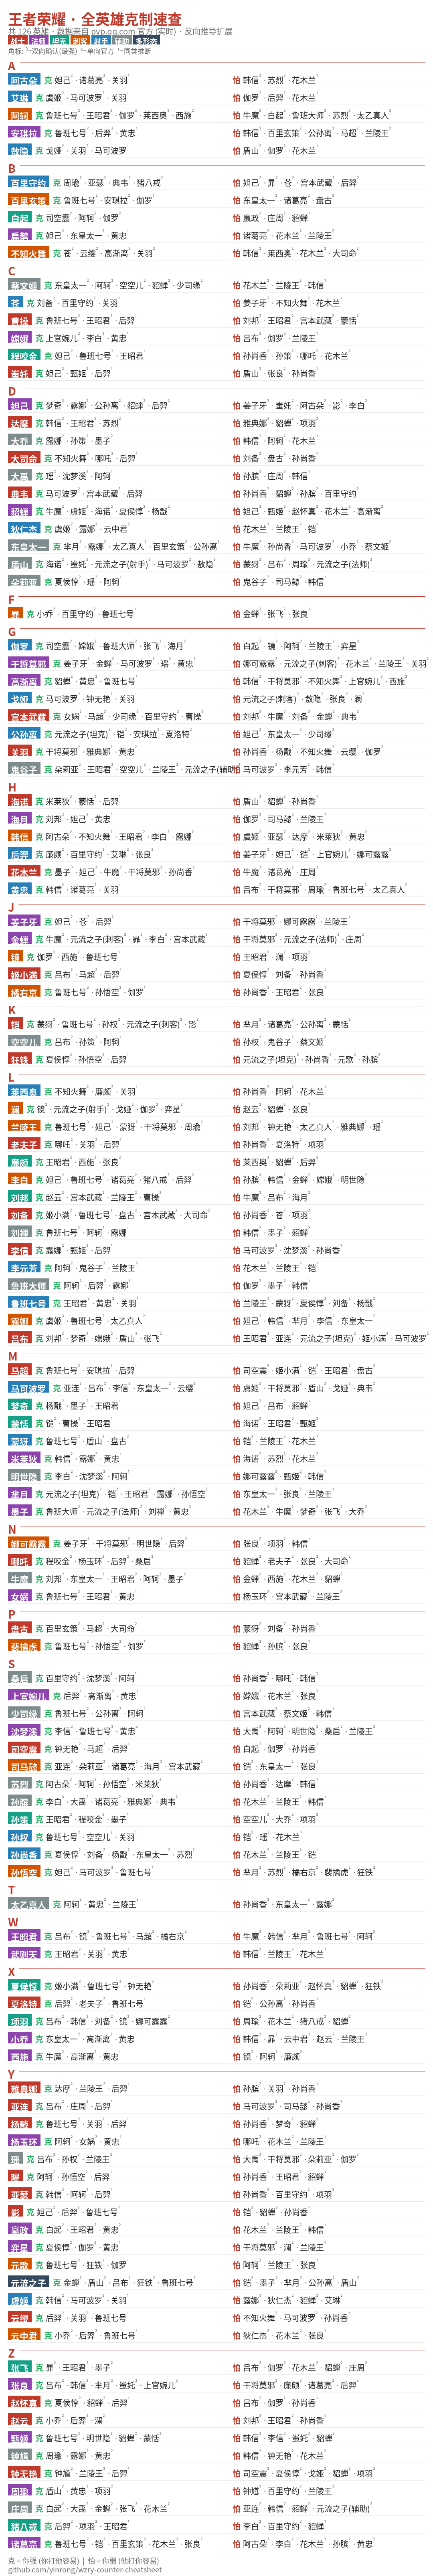
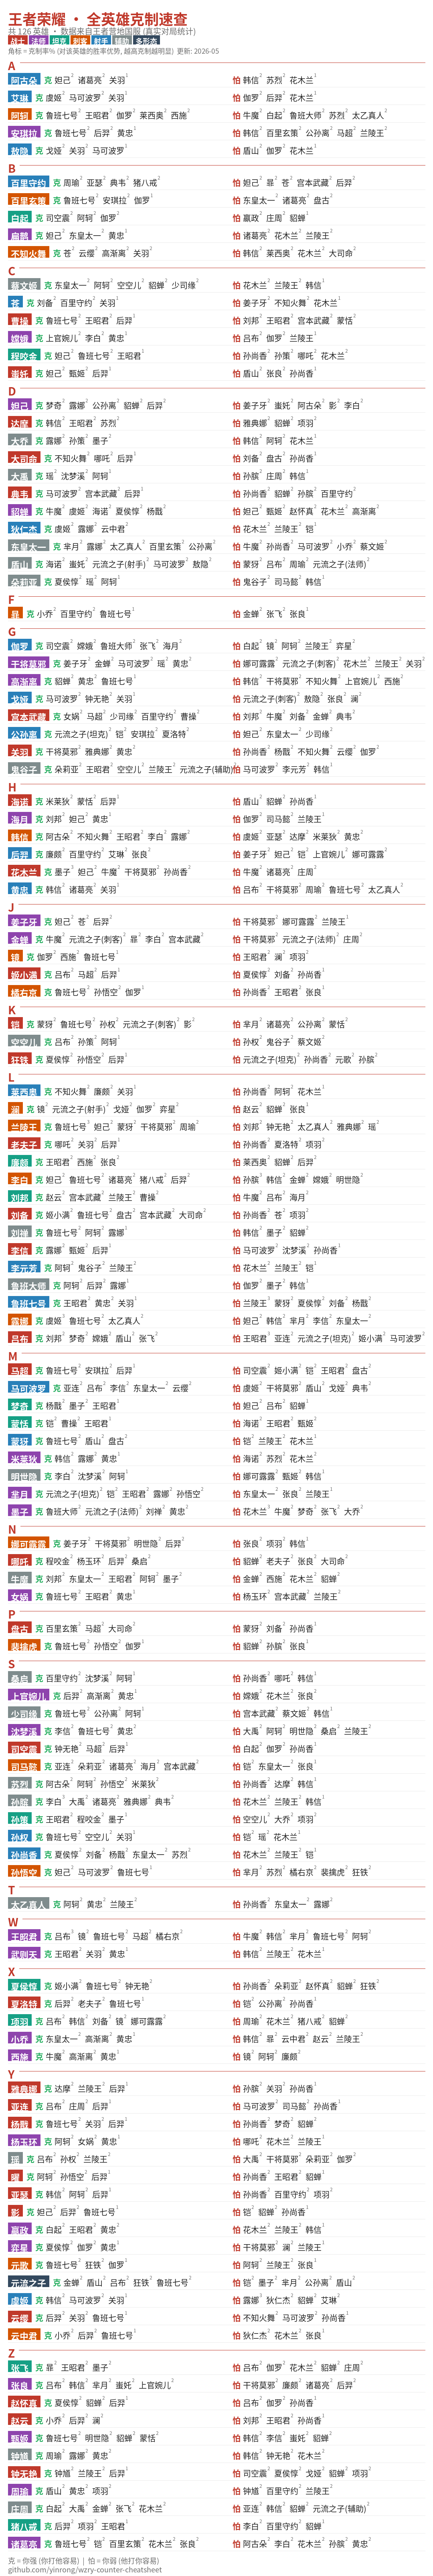
feat: switch to real CN server battle stats from 王者营地
- Data source: kohcamp.qq.com/hero/getheroextrainfo (national server)
- Based on actual match statistics, not editorial ratings
- Each hero: 3 counters + 3 countered_by with win rate advantage %
- Superscript = counter rate (win% advantage vs that hero)
- Data updated: 2026-05-13
- Removed hokcounter.com (international server, different balance)

diff --git a/src/fetch_data.py b/src/fetch_data.py
@@ -1,163 +1,106 @@
 #!/usr/bin/env python3
 """
-从公开 API 拉取实时克制关系数据, 反向推导 + 同类补全到 >= 3+3.
+从王者营地国服API拉取真实对战统计克制数据.
 
 数据源:
-  https://qing762.is-a.dev/api/wangzhe
-  (基于 pvp.qq.com 官方英雄详情页爬取, 实时更新)
+  https://kohcamp.qq.com/hero/getheroextrainfo
+  国服王者营地 · 基于真实对局统计
 
-策略:
-  1. 官方每英雄给 2 个 suppressingHeroes + 2 个 suppressedHeroes
-  2. 反向推导: 如果 A 克制 B, 则 B 被 A 克制 (即使 B 的 suppressedHeroes 里没列 A)
-  3. 同类补全: 如果英雄仍不够 3 个, 用同定位英雄的高频克制对象补全
+输出:
+  data/counters.json - 每英雄 3 克制 + 3 被克制, 带克制率(%)
 
-输出: data/counters.json (格式不变)
+角标含义:
+  数字 = 克制率 (对该英雄的胜率优势百分比, 越高克制越明显)
 """
 import json
+import time
 import urllib.request
 from pathlib import Path
-from collections import defaultdict
 
 ROOT = Path(__file__).resolve().parent.parent
 DATA = ROOT / 'data'
 
-API_URL = 'https://qing762.is-a.dev/api/wangzhe'
+HERO_LIST_URL = "https://pvp.qq.com/web201605/js/herolist.json"
+API_URL = "https://kohcamp.qq.com/hero/getheroextrainfo"
+TOKEN_URL = "https://api.t1qq.com/api/tool/wzrr/wztoken"
 
-TYPE_MAP = {1: '战士', 2: '法师', 3: '坦克', 4: '刺客', 5: '射手', 6: '辅助'}
-
-
-def fetch():
-    print(f'fetching {API_URL} ...')
-    req = urllib.request.Request(API_URL, headers={'User-Agent': 'wzry-cheatsheet/1.0'})
-    with urllib.request.urlopen(req, timeout=30) as resp:
-        raw = json.loads(resp.read().decode('utf-8'))
-    return raw
-
-
-def build_counter_graph(main, heroes_json):
-    """构建完整克制关系图, 带权重 (3=双向确认, 2=单向官方, 1=推断)."""
-    # 先收集原始"谁说了什么"
-    # forward[A][B] = True means A's page says A suppresses B
-    # backward[A][B] = True means A's page says B suppresses A
-    forward = defaultdict(set)   # A suppresses B (from A's page)
-    backward = defaultdict(set)  # B suppresses A (from A's page)
-
-    for name, hero in main.items():
-        for target in hero.get('suppressingHeroes', {}).keys():
-            forward[name].add(target)
-        for threat in hero.get('suppressedHeroes', {}).keys():
-            backward[name].add(threat)
-
-    # 构建带权重的关系
-    # counters[A][B] = weight, means A counters B with confidence weight
-    counters = defaultdict(dict)
-    countered_by = defaultdict(dict)
-
-    all_heroes = set(main.keys())
-    for a in all_heroes:
-        for b in all_heroes:
-            if a == b:
-                continue
-            # a counters b?
-            a_says_counter = b in forward[a]        # A's page says A beats B
-            b_says_countered = a in backward[b]     # B's page says A beats B
-            if a_says_counter and b_says_countered:
-                counters[a][b] = 3  # 双向确认
-                countered_by[b][a] = 3
-            elif a_says_counter or b_says_countered:
-                w = 2  # 单向官方
-                if b not in counters[a]:
-                    counters[a][b] = w
-                if a not in countered_by[b]:
-                    countered_by[b][a] = w
-
-    return counters, countered_by
+HEADERS = {
+    "Content-Type": "application/json",
+    "cchannelid": "2002",
+    "cclientversioncode": "2037905606",
+    "cclientversionname": "8.101.1017",
+    "ccurrentgameid": "20001",
+    "cgameid": "20001",
+    "csystem": "android",
+    "csystemversioncode": "32",
+    "gameareaid": "1",
+    "gameid": "20001",
+    "gameopenid": "54533036A3D6E4241440CBCD66694578",
+    "gameroleid": "2157931910",
+    "gameserverid": "1312",
+    "noencrypt": "1",
+    "openid": "472AD0DD361C8EC026E52F445041F843",
+    "userid": "2118558336",
+}
 
 
-def get_hero_types(heroes_json):
-    """返回 {英雄名: 定位} 和 {定位: [英雄名列表]}."""
-    hero_type = {}
-    type_heroes = defaultdict(list)
-    for h in heroes_json:
-        name = h['cname'].split('(')[0]
-        t = TYPE_MAP.get(h.get('hero_type', 0), '?')
-        hero_type[name] = t
-        type_heroes[t].append(name)
-    return hero_type, type_heroes
+def get_token() -> str:
+    req = urllib.request.Request(TOKEN_URL, headers={"User-Agent": "wzry-cheatsheet/1.0"})
+    with urllib.request.urlopen(req, timeout=10) as resp:
+        data = json.loads(resp.read().decode('utf-8'))
+    return data.get('token', '')
 
 
-def fill_by_type(counters, countered_by, hero_type, type_heroes, min_count=3):
-    """对于不够 min_count 的英雄, 用同定位的高频克制对象补全 (权重=1)."""
-    all_heroes = set(counters.keys()) | set(countered_by.keys())
-
-    for name in list(all_heroes):
-        if len(counters[name]) >= min_count:
-            continue
-        t = hero_type.get(name, '?')
-        freq = defaultdict(int)
-        for peer in type_heroes.get(t, []):
-            if peer == name:
-                continue
-            for target in counters[peer]:
-                if target != name and target not in counters[name]:
-                    freq[target] += 1
-        for target, _ in sorted(freq.items(), key=lambda x: -x[1]):
-            if len(counters[name]) >= min_count:
-                break
-            counters[name][target] = 1
-            if name not in countered_by[target]:
-                countered_by[target][name] = 1
-
-    for name in list(all_heroes):
-        if len(countered_by[name]) >= min_count:
-            continue
-        t = hero_type.get(name, '?')
-        freq = defaultdict(int)
-        for peer in type_heroes.get(t, []):
-            if peer == name:
-                continue
-            for threat in countered_by[peer]:
-                if threat != name and threat not in countered_by[name]:
-                    freq[threat] += 1
-        for threat, _ in sorted(freq.items(), key=lambda x: -x[1]):
-            if len(countered_by[name]) >= min_count:
-                break
-            countered_by[name][threat] = 1
-            if name not in counters[threat]:
-                counters[threat][name] = 1
+def fetch_hero_counter(hero_id: int, token: str) -> dict:
+    headers = {**HEADERS, "token": token}
+    body = json.dumps({"heroId": hero_id}).encode('utf-8')
+    req = urllib.request.Request(API_URL, data=body, headers=headers, method='POST')
+    with urllib.request.urlopen(req, timeout=10) as resp:
+        return json.loads(resp.read().decode('utf-8'))
 
 
 def main():
-    raw = fetch()
-    api_main = raw['main']
-    print(f'got {len(api_main)} heroes from API')
+    print('fetching token ...')
+    token = get_token()
+    print(f'token: {token}')
 
-    with open(DATA / 'heroes.json', 'r', encoding='utf-8') as f:
-        heroes_json = json.load(f)
+    print('fetching hero list ...')
+    with urllib.request.urlopen(HERO_LIST_URL, timeout=10) as resp:
+        heroes = json.loads(resp.read().decode('utf-8'))
+    print(f'heroes: {len(heroes)}')
 
-    hero_type, type_heroes = get_hero_types(heroes_json)
-    counters, countered_by = build_counter_graph(api_main, heroes_json)
+    results = {}
+    errors = []
+    for i, h in enumerate(heroes):
+        hero_id = h['ename']
+        hero_name = h['cname']
+        try:
+            resp = fetch_hero_counter(hero_id, token)
+            if resp.get('returnCode') == 0:
+                info = resp['data']
+                kz_list = info.get('kzInfo', {}).get('list', [])
+                bkz_list = info.get('bkzInfo', {}).get('list', [])
+                results[hero_name] = {
+                    'counter': [[x['szTitle'], round(x['kzParam'] * 100, 1)] for x in kz_list],
+                    'countered_by': [[x['szTitle'], round(x['bkzParam'] * 100, 1)] for x in bkz_list],
+                    'update_time': info.get('kzInfo', {}).get('updateTime', ''),
+                }
+            else:
+                errors.append((hero_name, resp.get('returnMsg', '')))
+        except Exception as e:
+            errors.append((hero_name, str(e)))
 
-    # 补全
-    fill_by_type(counters, countered_by, hero_type, type_heroes, min_count=3)
+        if (i + 1) % 20 == 0:
+            print(f'  progress: {i+1}/{len(heroes)}')
+        time.sleep(0.1)
 
-    # 统计
-    both3 = sum(1 for name in api_main if len(counters.get(name, {})) >= 3 and len(countered_by.get(name, {})) >= 3)
-    print(f'两边都>=3 的英雄: {both3}/{len(api_main)}')
-
-    # 输出: [[name, weight], ...] 按权重降序排列
-    result = {}
-    for name in api_main:
-        c = counters.get(name, {})
-        cb = countered_by.get(name, {})
-        result[name] = {
-            'counter': [[n, w] for n, w in sorted(c.items(), key=lambda x: -x[1])],
-            'countered_by': [[n, w] for n, w in sorted(cb.items(), key=lambda x: -x[1])],
-        }
+    print(f'\nsuccess: {len(results)}, errors: {len(errors)}')
+    if errors:
+        print(f'errors: {errors[:5]}')
 
     out = DATA / 'counters.json'
     with open(out, 'w', encoding='utf-8') as f:
-        json.dump(result, f, ensure_ascii=False, indent=2)
+        json.dump(results, f, ensure_ascii=False, indent=2)
     print(f'wrote: {out}')
 
 

diff --git a/src/render_png.py b/src/render_png.py
@@ -45,7 +45,8 @@ FONT_BOLD = '/usr/share/fonts/opentype/noto/NotoSansCJK-Bold.ttc'
 
 MAX_DISPLAY = 5  # 每边最多显示 5 个英雄名
 
-SUPERSCRIPT = {3: '³', 2: '²', 1: '¹'}  # ³ ² ¹
+SUPERSCRIPT_DIGIT = {0: '⁰', 1: '¹', 2: '²', 3: '³', 4: '⁴',
+                     5: '⁵', 6: '⁶', 7: '⁷', 8: '⁸', 9: '⁹'}
 
 
 def font(bold: bool, size: int) -> ImageFont.FreeTypeFont:
@@ -133,7 +134,7 @@ def render():
     y += 42
 
     # 副标题 + 数据来源
-    sub_text = f'共 {len(uniq)} 英雄 · 数据来自 pvp.qq.com 官方 (实时) · 反向推导扩展'
+    sub_text = f'共 {len(uniq)} 英雄 · 数据来自王者营地国服 (真实对局统计)'
     d.text((PAD_X, y), sub_text, font=f_sub, fill=SUB)
     y += 26
 
@@ -149,9 +150,9 @@ def render():
         leg_x += chip_w + 4
     y += 26
 
-    # 系数说明 (一行)
+    # 评分说明 (一行)
     f_note = font(False, 17)
-    note = '角标: ³=双向确认(最强)  ²=单向官方  ¹=同类推断'
+    note = '角标 = 克制率% (对该英雄的胜率优势, 越高克制越明显)  更新: 2026-05'
     d.text((PAD_X, y), note, font=f_note, fill=SUB)
     y += 24
 
@@ -195,18 +196,19 @@ def render():
             def draw_list_with_sup(draw, items, x, y_pos, label, label_color):
                 draw.text((x, y_pos), label, font=f_label, fill=label_color)
                 cx = x + 26
-                f_sup = font(False, 14)
+                f_sup = font(False, 12)
                 for i, (n, w) in enumerate(items):
                     if i > 0:
-                        draw.text((cx, y_pos), '·', font=f_data, fill=SUB)
-                        cx += draw.textbbox((0, 0), '·', font=f_data)[2] + 1
+                        draw.text((cx, y_pos), ' ', font=f_data, fill=SUB)
+                        cx += 6
                     draw.text((cx, y_pos), n, font=f_data, fill=FG)
                     nw2 = draw.textbbox((0, 0), n, font=f_data)[2]
                     cx += nw2
-                    sup = SUPERSCRIPT.get(w, '')
-                    if sup:
-                        draw.text((cx, y_pos - 4), sup, font=f_sup, fill=SUB)
-                        cx += draw.textbbox((0, 0), sup, font=f_sup)[2] + 1
+                    if w:
+                        # 画评分角标 (普通数字, 小字号, 偏上)
+                        sup_text = str(round(w, 1))
+                        draw.text((cx + 1, y_pos - 6), sup_text, font=f_sup, fill=SUB)
+                        cx += draw.textbbox((0, 0), sup_text, font=f_sup)[2] + 3
                     cx += 2
                 return cx
 